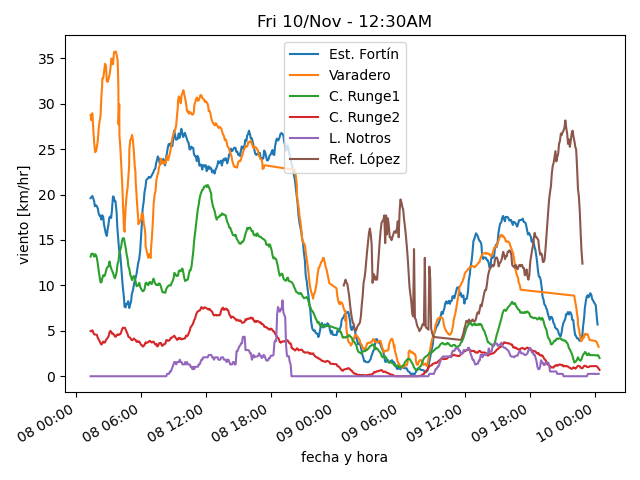
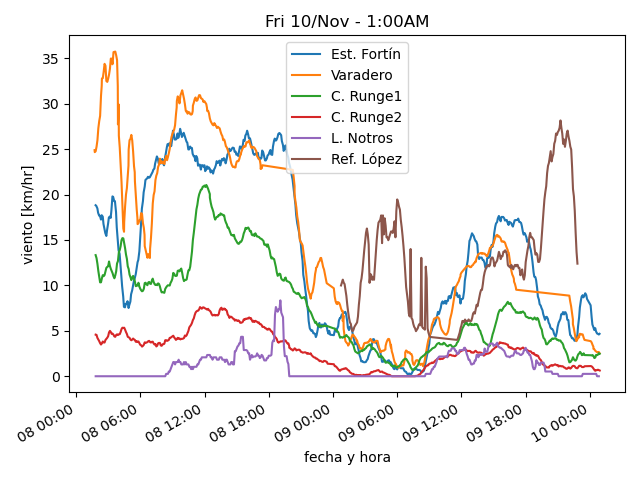
actualiza datos

diff --git a/estaciones/estacion4.html b/estaciones/estacion4.html
@@ -18,32 +18,32 @@
     </tr>
     <tr>
      <td class="stats_data">
-      12:24AM
+      12:54AM
      </td>
     </tr>
     <tr>
      <td class="stats_data">
-      10.8⁰C
+      10.6⁰C
      </td>
     </tr>
     <tr>
      <td class="stats_data">
-      1.2⁰C
+      2.3⁰C
      </td>
     </tr>
     <tr>
      <td class="stats_data">
-      51.7%
+      56.2%
      </td>
     </tr>
     <tr>
      <td class="stats_data">
-      1008.13hPa
+      1007.92hPa
      </td>
     </tr>
     <tr>
      <td class="stats_data">
-      0.1/0.4 km/hr SSW
+      0.4/0.9 km/hr SSW
      </td>
     </tr>
     <tr>

diff --git a/estaciones/estacion3.html b/estaciones/estacion3.html
@@ -18,32 +18,32 @@
     </tr>
     <tr>
      <td class="stats_data">
-      12:24AM
+      12:54AM
      </td>
     </tr>
     <tr>
      <td class="stats_data">
-      12.7⁰C
+      11.8⁰C
      </td>
     </tr>
     <tr>
      <td class="stats_data">
-      2.0⁰C
+      2.8⁰C
      </td>
     </tr>
     <tr>
      <td class="stats_data">
-      48.1%
+      54.1%
      </td>
     </tr>
     <tr>
      <td class="stats_data">
-      999.02hPa
+      998.92hPa
      </td>
     </tr>
     <tr>
      <td class="stats_data">
-      1.5/2.5 km/hr W
+      1.5/2.2 km/hr W
      </td>
     </tr>
     <tr>

diff --git a/estaciones/estacion2.html b/estaciones/estacion2.html
@@ -18,22 +18,22 @@
     </tr>
     <tr>
      <td class="stats_data">
-      12:19AM
+      12:54AM
      </td>
     </tr>
     <tr>
      <td class="stats_data">
-      9.8⁰C
+      9.4⁰C
      </td>
     </tr>
     <tr>
      <td class="stats_data">
-      1.2⁰C
+      1.1⁰C
      </td>
     </tr>
     <tr>
      <td class="stats_data">
-      54.8%
+      56.0%
      </td>
     </tr>
     <tr>
@@ -43,7 +43,7 @@
     </tr>
     <tr>
      <td class="stats_data">
-      2.2/3.2 km/hr SSW
+      1.4/2.2 km/hr SSW
      </td>
     </tr>
     <tr>

diff --git a/estaciones/estacion1.html b/estaciones/estacion1.html
@@ -18,22 +18,22 @@
     </tr>
     <tr>
      <td class="stats_data">
-      12:13AM
+      12:54AM
      </td>
     </tr>
     <tr>
      <td class="stats_data">
-      11.2⁰C
+      10.5⁰C
      </td>
     </tr>
     <tr>
      <td class="stats_data">
-      2.3⁰C
+      3.7⁰C
      </td>
     </tr>
     <tr>
      <td class="stats_data">
-      54.5%
+      62.5%
      </td>
     </tr>
     <tr>
@@ -43,7 +43,7 @@
     </tr>
     <tr>
      <td class="stats_data">
-      1.6/4.8 km/hr NE
+      5.6/5.6 km/hr E
      </td>
     </tr>
     <tr>

diff --git a/estaciones/estacion5.html b/estaciones/estacion5.html
@@ -18,27 +18,27 @@
     </tr>
     <tr>
      <td class="stats_data">
-      12:20AM
+      12:50AM
      </td>
     </tr>
     <tr>
      <td class="stats_data">
-      5.4⁰C
+      4.9⁰C
      </td>
     </tr>
     <tr>
      <td class="stats_data">
-      0.9⁰C
+      1.2⁰C
      </td>
     </tr>
     <tr>
      <td class="stats_data">
-      73.0%
+      77.0%
      </td>
     </tr>
     <tr>
      <td class="stats_data">
-      1009.82hPa
+      1009.92hPa
      </td>
     </tr>
     <tr>
